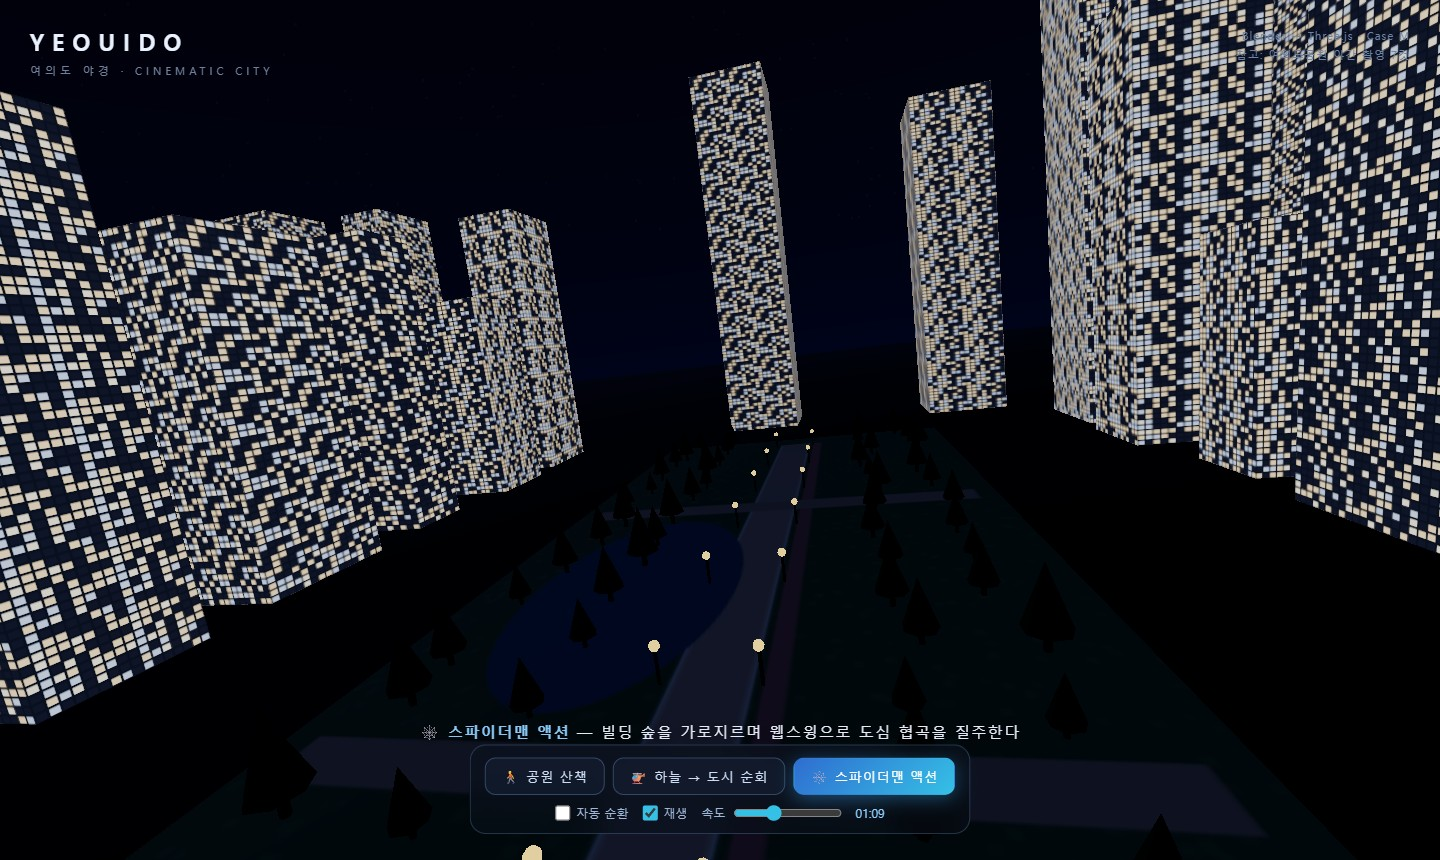
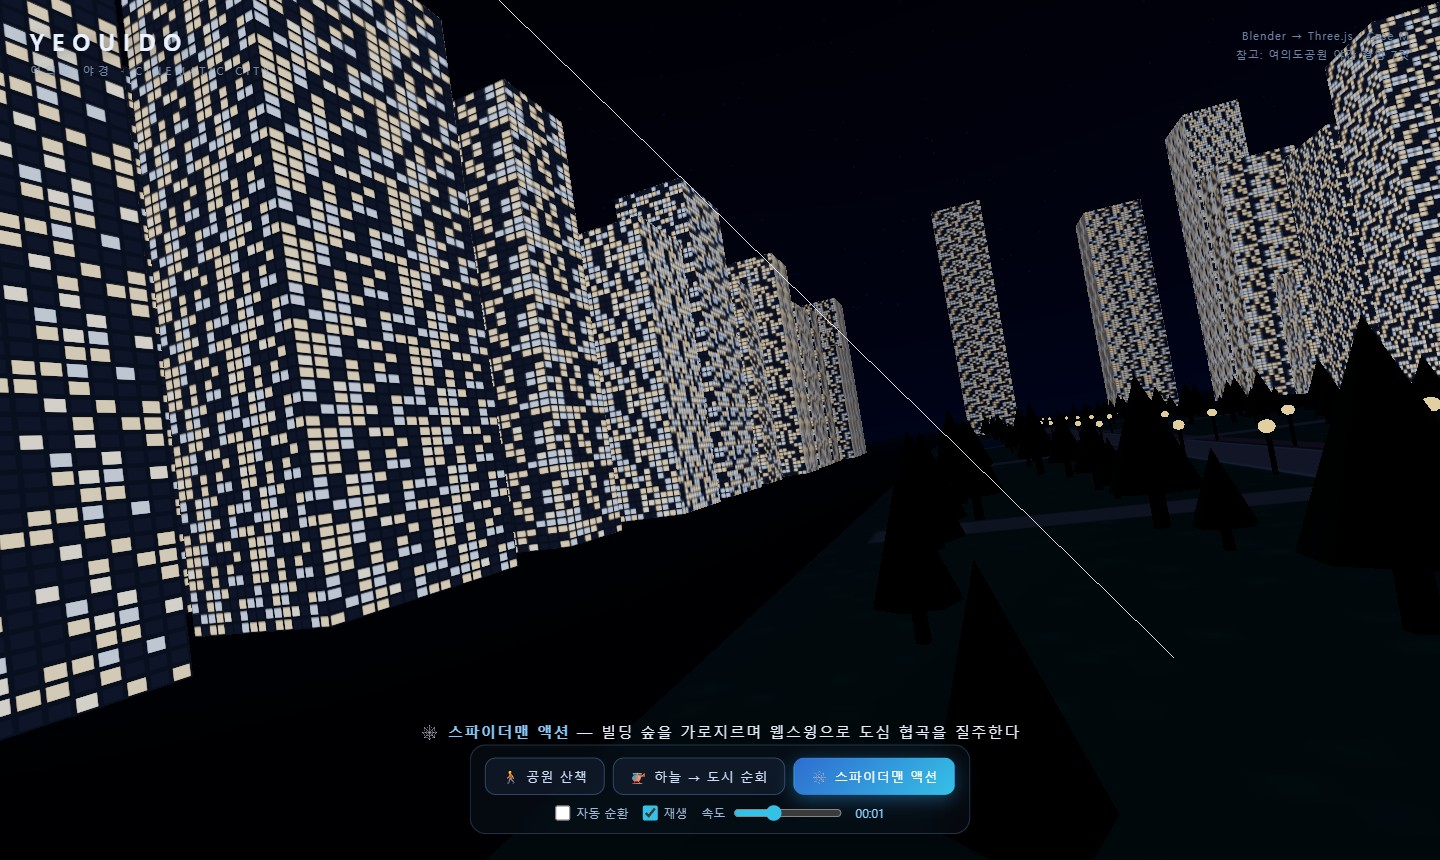
[sample18] 스파이더맨 웹스윙 물리 보정 — 근거리 웹 + 공원 횡단 금지
사용자 피드백: 거미줄이 공중/초장거리로 공원을 통째로 건너뛰어 비현실적.

- 실제 건물 옥상 모서리를 웹 앵커로 (parkFaceCorner)
- 거미줄 최대 길이 MAX_WEB=165m (≈ 밀접 건물 3칸), 초과 시 숨김
- 공원 횡단 금지: 북측 클러스터(1열 z=-150 + 2열 z=-225) 한쪽 그룹 내 인접 타워
  지그재그 점프 (front→front→mid 위빙), 공원은 옆에 둔다
- 세그먼트 타워 공유로 위치/롤/y 연속(스냅 제거), 지면 밑 클램프, 파사드 24m 클리어런스
- 웹라인 손 위치 발사(전방·우하단) + Additive/bloom 발광으로 가시성 확보

diff --git a/design/xaml/output/sample18/index.html b/design/xaml/output/sample18/index.html
@@ -336,7 +336,7 @@ const walkLights=[]; for(let i=0;i<4;i++){ const pl=new THREE.PointLight(0xffca8
 })();
 
 /* ---------------- Spider web line (only in spider scene) ---------------- */
-const webMat=new THREE.LineBasicMaterial({color:0xffffff, transparent:true, opacity:0});
+const webMat=new THREE.LineBasicMaterial({color:0xffffff, transparent:true, opacity:0, blending:THREE.AdditiveBlending, depthWrite:false});
 const webGeo=new THREE.BufferGeometry().setFromPoints([new V(), new V()]);
 const webLine=new THREE.Line(webGeo, webMat); scene.add(webLine);
 
@@ -392,16 +392,50 @@ function sceneSky(t){
 }
 function sampleDescent(t){ return kfSample(kfDescent.concat([{t:12.0001,pos:[300,170,360],look:[0,60,0],fov:56}]), t); }
 
-// Scene 2 — 스파이더맨 액션 (web-swing through the boulevard canyon)
+// Scene 2 — 스파이더맨 액션 (한쪽 클러스터 내 근거리 웹스윙)
+// ⚠ 공원을 건너지 않는다. 공원 한쪽(북측) 건물 그룹 안에서 인접 타워끼리
+//    짧은 웹으로 지그재그 점프한다. 거미줄은 최대 3칸 이내로 제한.
+function parkFaceCorner(b){                  // 공원(z=0)을 향한 타워 상단 모서리
+  const bz=-b.y; return new V(b.x, b.h, bz + Math.sign(-bz||1)*(b.d/2));
+}
+const MAX_WEB = 165;                         // 거미줄 최대 길이 (≈ 건물 3칸, 밀접 기준)
+const spiderTowers=[];
+(function buildSpiderRoute(){
+  const near=(v,t)=>Math.abs(v-t)<6;
+  const front=BLD.filter(b=>near(-b.y,-150)).sort((a,b)=>a.x-b.x); // 북측 1열 (z=-150)
+  const mid  =BLD.filter(b=>near(-b.y,-225)).sort((a,b)=>a.x-b.x); // 북측 2열 (z=-225)
+  front.forEach((b,k)=>{
+    spiderTowers.push(b);
+    if(k%2===1 && mid[k]) spiderTowers.push(mid[k]);              // 2열로 지그재그 위빙
+  });
+})();
+const spiderCorners = spiderTowers.map(parkFaceCorner);
+const spiderState = { webTarget:new V(), webOn:0 };
+
+function hangOf(C){                           // 타워 앞 스윙 레인 (건물 면과 여유 간격)
+  const hy=clamp(C.y*0.6, 55, 120);
+  return new V(C.x, hy, C.z + Math.sign(-C.z||1)*24);   // 24m 앞으로 → 파사드 클리핑 방지
+}
 function sceneSpider(t){
-  const T=24, p=(t%T)/T;
-  const x=-352 + p*704;                     // fast forward across the city
-  const ph=t*1.55;                          // pendulum phase
-  const y=52 - Math.cos(ph)*34 + 34;        // arc: rise near anchors, dip at bottom
-  const z=Math.sin(ph*0.5)*104;             // swing between north(-z) & south(+z) canyon
-  const roll=-Math.sin(ph*0.5)*0.5;         // bank into the swing
-  const look=new V(x+70, y-6 + Math.sin(ph)*10, z*0.4);
-  return { pos:new V(x,y,z), look, fov:74, roll, swingPhase:ph };
+  const N=spiderCorners.length;
+  const segDur=1.9, total=(N-1)*segDur;
+  let tt=t % total;
+  let i=Math.floor(tt/segDur), u=(tt-i*segDur)/segDur;
+  const Ca=spiderCorners[i], Cb=spiderCorners[i+1];              // 인접 타워 → 인접 타워
+  const Cc=spiderCorners[Math.min(i+2,N-1)];
+  const hangA=hangOf(Ca), hangB=hangOf(Cb);                     // 세그먼트가 타워 공유 → 연속
+  const flat=hangA.clone().lerp(hangB,u);
+  const sag=38;                                                 // 진자 하강 깊이
+  const pos=new V(flat.x, Math.max(16, flat.y - sag*Math.sin(Math.PI*u)), flat.z);
+  // 거미줄: 스윙해 가는 인접 타워(Cb) 옥상에 부착. 최대 길이 초과 시 숨김.
+  spiderState.webTarget.copy(Cb);
+  const reachable = Cb.distanceTo(pos) <= MAX_WEB;
+  spiderState.webOn = (reachable && u>0.05 && u<0.82) ? 1 : 0;
+  // 뱅킹: 진행/위빙 방향으로 기울임
+  const roll=-Math.sign((hangB.z-hangA.z) || (hangB.x-hangA.x)) * 0.42 * Math.sin(Math.PI*u);
+  // 시선: 다음 타워를 바라보며 (인접 건물 간극이 화면에 들어옴)
+  const look=Cb.clone().lerp(Cc,0.3); look.y=pos.y+2; look.x+=14;
+  return { pos, look, fov:76, roll };
 }
 
 const SCENES=[sceneWalk, sceneSky, sceneSpider];
@@ -474,15 +508,17 @@ function animate(){
     walkLights.forEach((pl,i)=>{ if(near[i]){ pl.position.copy(near[i]); pl.intensity=lerp(pl.intensity, 260, 0.1);} else pl.intensity=0; });
   } else { walkLights.forEach(pl=>pl.intensity=lerp(pl.intensity,0,0.2)); }
 
-  // spider scene: draw a web line to an upcoming building top
-  if(cur===2){
-    const anchorX=pos.x+140; let best=null,bd=1e9;
-    for(const b of BLD){ if(b.x>pos.x && b.h>120){ const d=Math.abs(b.x-anchorX); if(d<bd){bd=d;best=b;} } }
-    if(best){ const ap=new V(best.x, best.h, -best.y);
-      webGeo.setFromPoints([new V(pos.x+6, pos.y-3, pos.z), ap]); webGeo.attributes.position.needsUpdate=true;
-      webMat.opacity=lerp(webMat.opacity, 0.5, 0.1);
-    }
-  } else webMat.opacity=lerp(webMat.opacity, 0, 0.2);
+  // spider scene: web line taut from the "hand" (in-view, lower-right) to the real tower
+  if(cur===2 && spiderState.webOn){
+    const fwd=new THREE.Vector3(); camera.getWorldDirection(fwd);
+    const right=new THREE.Vector3().crossVectors(fwd, camera.up).normalize();
+    const hand=camera.position.clone()
+      .add(fwd.clone().multiplyScalar(11))
+      .add(right.multiplyScalar(7))
+      .add(new V(0,-5,0));
+    webGeo.setFromPoints([hand, spiderState.webTarget]); webGeo.attributes.position.needsUpdate=true;
+    webMat.opacity=lerp(webMat.opacity, 0.9, 0.4);
+  } else webMat.opacity=lerp(webMat.opacity, 0, 0.4);
 
   // subtle river shimmer via moon angle already; twinkle lamps
   document.getElementById('clock').textContent=fmt(elapsed);

diff --git a/harness/logs/2026-07-27-yeouido-cinematic-caseM.md b/harness/logs/2026-07-27-yeouido-cinematic-caseM.md
@@ -69,3 +69,15 @@
 - Lv.65 (4,914) → 9,834 → **레벨업 Lv.66** (이월 1,034 / 다음 9,100)
 - total_designs 34 → 35 · total_xp 192,920 → 197,840
 - 🏅 **Case M 개시** — Modeling-First 파이프라인 첫 완주 (영상→Blender→Three.js)
+
+## 개선 v2 — 스파이더맨 웹스윙 물리 보정 (사용자 피드백)
+
+초기 구현은 고정 사인파 진자 + 공원 전체를 가로지르는 초장거리 웹이라 비현실적이었다.
+피드백 반영하여 물리 기반으로 재작성:
+
+- **실제 건물 옥상 모서리를 웹 앵커**로 (허공 부착 제거) — `parkFaceCorner()`
+- **거미줄 최대 길이 제한** `MAX_WEB=165m` (≈ 밀접 건물 3칸), 초과 시 웹 숨김
+- **공원 횡단 금지** — 북측 건물 클러스터(1열 z=-150 + 2열 z=-225) 한쪽 그룹 안에서만
+  인접 타워끼리 짧은 지그재그 점프 (front→front→mid 위빙). 공원은 옆에 둔다.
+- 세그먼트가 타워를 공유해 위치/롤/y 연속(스냅 없음), 지면 밑 클램프, 파사드 24m 클리어런스
+- 웹라인: 카메라 전방·우하단 "손" 위치에서 발사(가시성), Additive+bloom 발광
